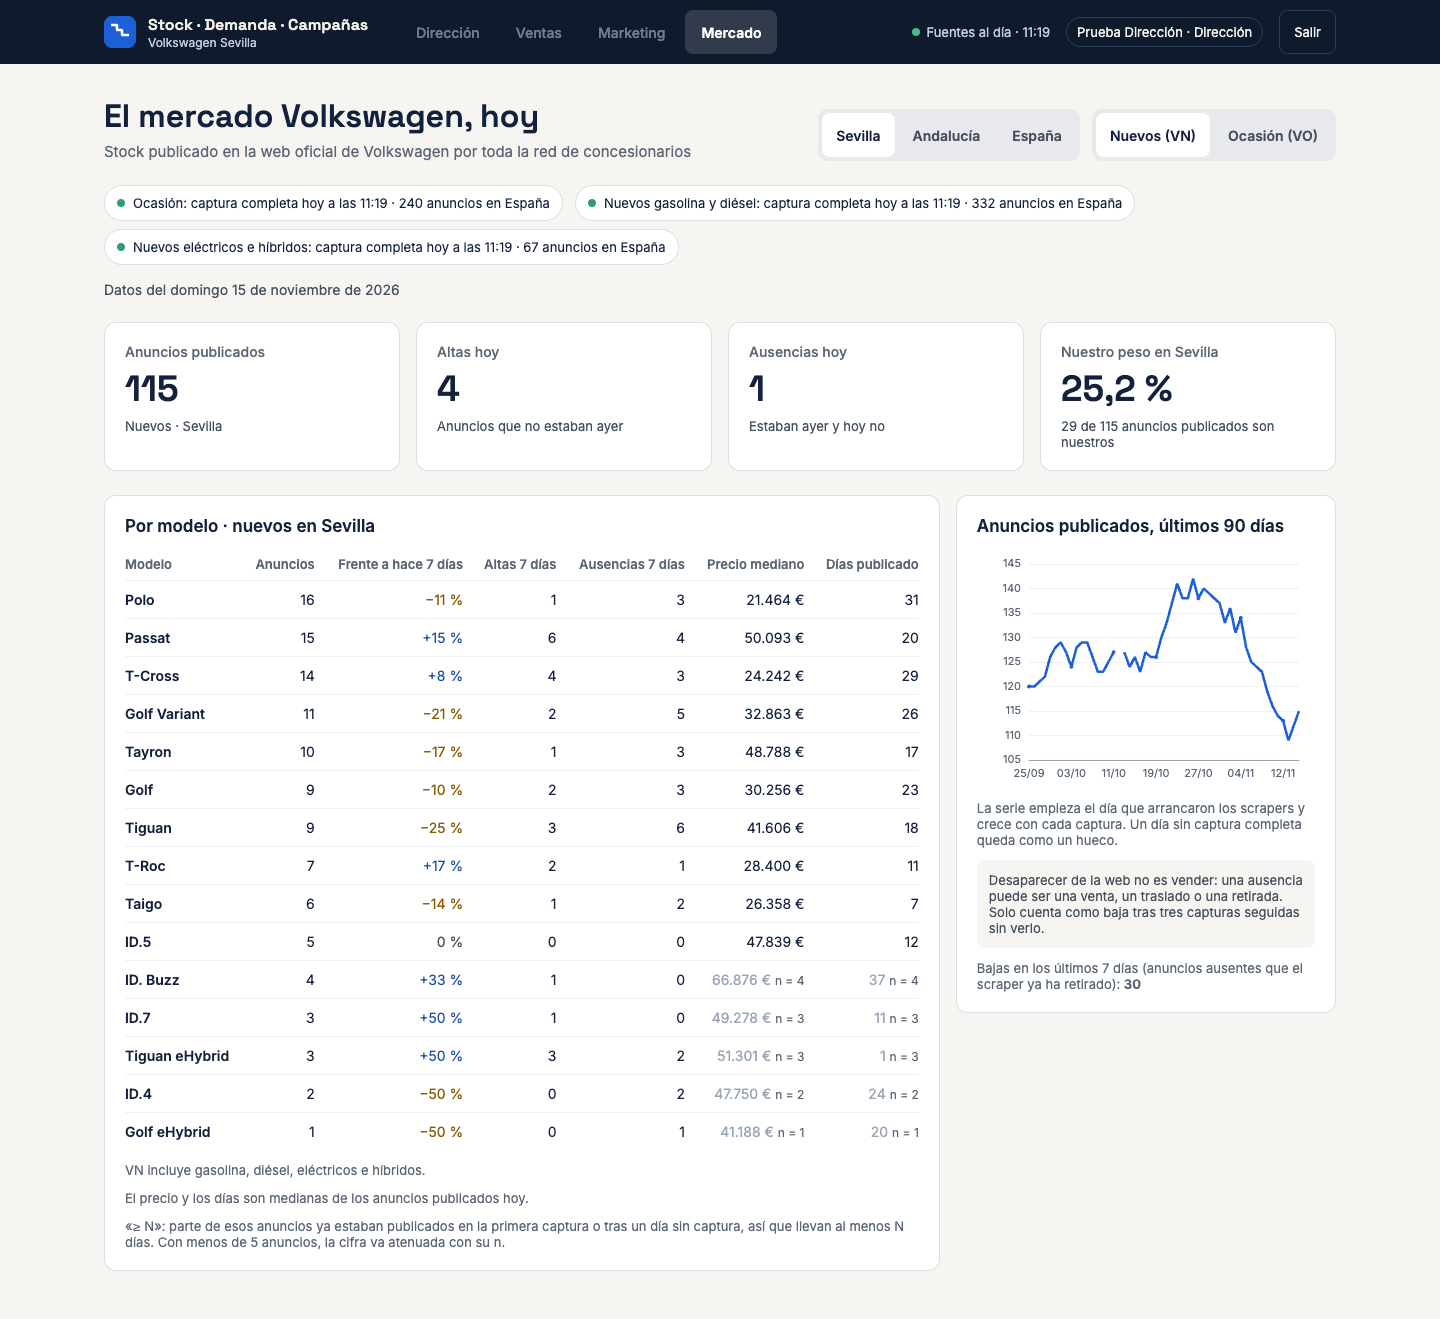
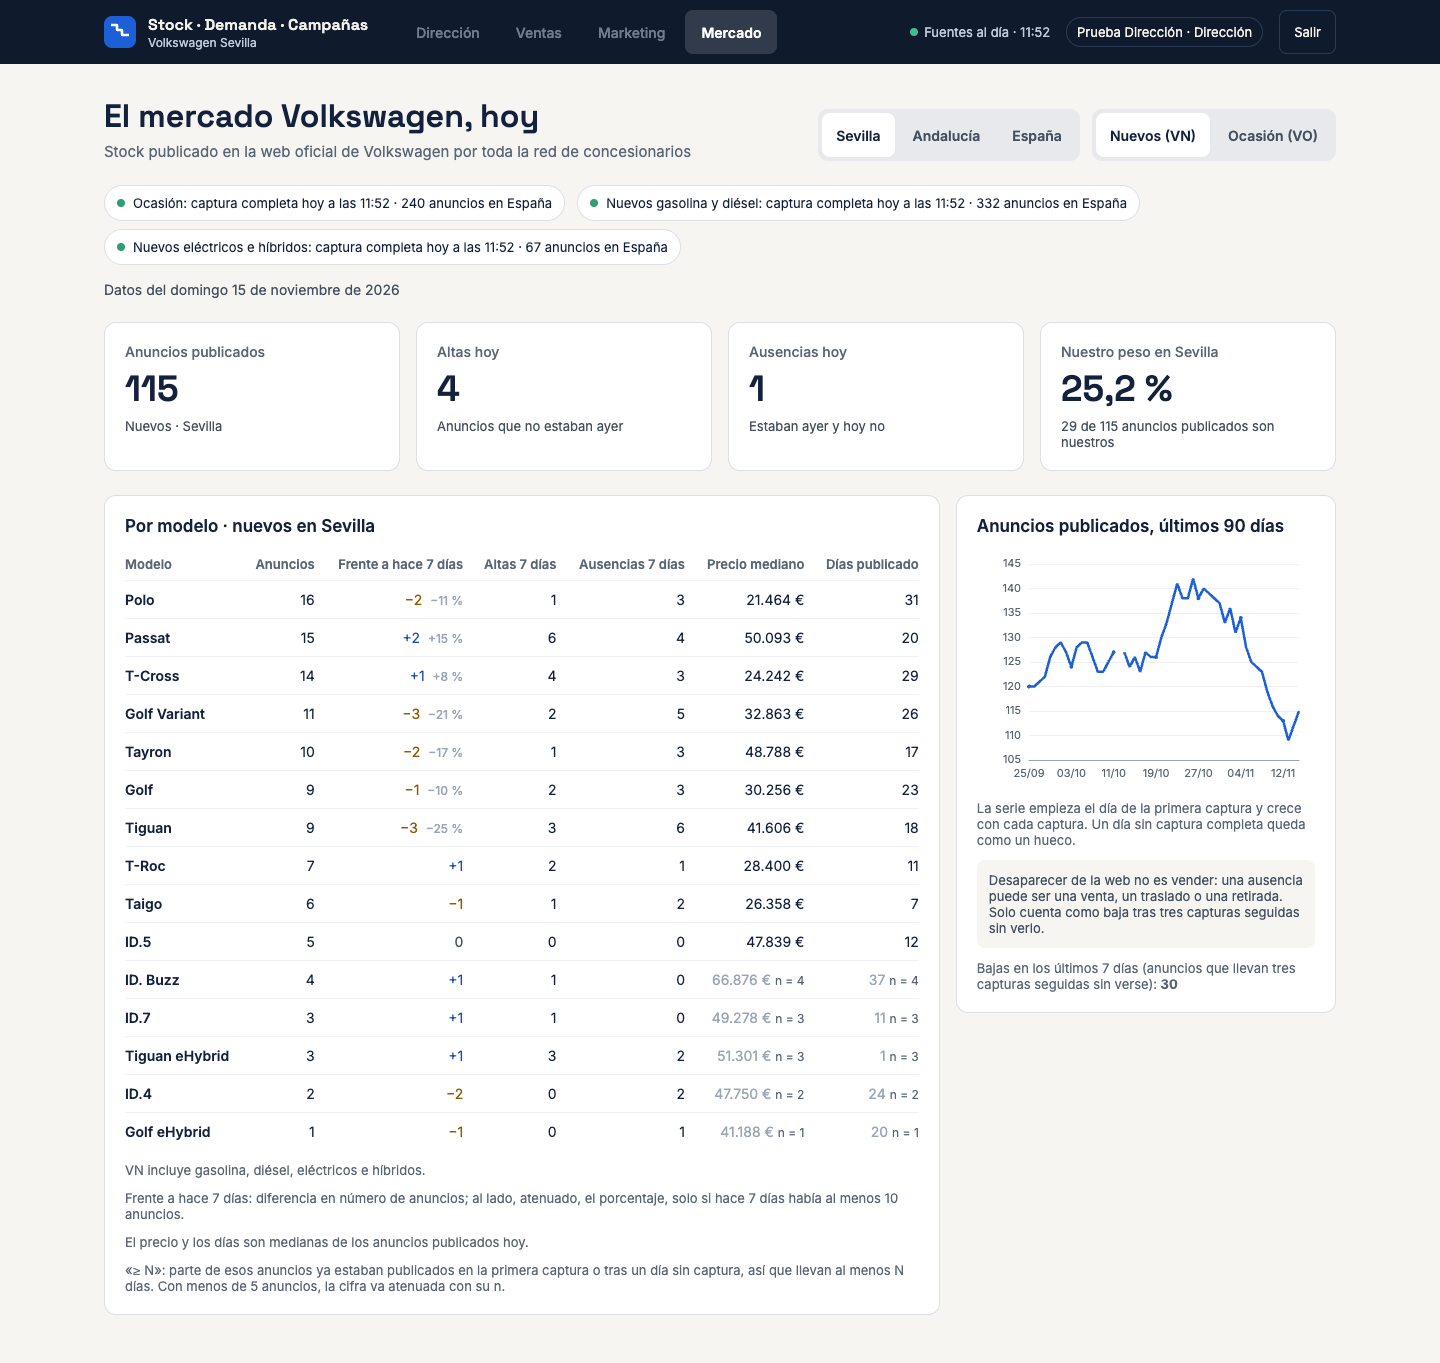
Mercado: tabla en dos líneas en el móvil, variación en unidades y «captura» en vez de «scraper»
- Pantallas estrechas: cada modelo en dos líneas, sin desplazamiento horizontal; escritorio igual.
- «Frente a hace 7 días»: diferencia con signo; porcentaje atenuado solo si hace 7 días había al
  menos panel.n_minimo_porcentaje anuncios (10, en config/concesionario.yaml).
- La vista Mercado ya no dice «scraper».
- tests/navegador/capturas.mjs: comprobación en Chrome a 390 px y capturas regeneradas.

diff --git a/panel/templates/_mercado.html b/panel/templates/_mercado.html
@@ -27,10 +27,10 @@
   {% if not m.hay_datos %}
   <section class="tarjeta">
     <h2>Todavía no hay datos de {{ 'nuevos' if m.tipo == 'VN' else 'ocasión' }}</h2>
-    <p class="nota">Aparecen tras el primer día con captura completa{% if m.tipo == 'VN' %} de los dos scrapers de nuevos{% endif %} y el precálculo de las 09:10.</p>
+    <p class="nota">Aparecen tras el primer día con captura completa{% if m.tipo == 'VN' %} de las dos capturas de nuevos (gasolina y diésel; eléctricos e híbridos){% endif %} y el precálculo de las 09:10.</p>
   </section>
   {% else %}
-  <p class="dia-datos">Datos del {{ m.dia_largo }}{% if not m.es_hoy %}<span class="aviso-dia"> · Falta la captura completa de hoy{% if m.tipo == 'VN' %} de alguno de los dos scrapers de nuevos{% endif %}: se muestran los datos del último día completo.</span>{% endif %}</p>
+  <p class="dia-datos">Datos del {{ m.dia_largo }}{% if not m.es_hoy %}<span class="aviso-dia"> · Falta la captura completa de hoy{% if m.tipo == 'VN' %} de alguna de las dos capturas de nuevos{% endif %}: se muestran los datos del último día completo.</span>{% endif %}</p>
 
   <div class="kpis">
     {% for k in m.kpis %}
@@ -46,7 +46,7 @@
     <section aria-labelledby="t-modelos" class="tarjeta tarjeta-ancha">
       <h2 id="t-modelos">Por modelo · {{ m.titulo_tabla }}</h2>
       <div class="tabla-scroll">
-        <table class="tabla">
+        <table class="tabla tabla-modelos">
           <thead>
             <tr>
               <th scope="col" class="izq">Modelo</th>
@@ -62,12 +62,12 @@
             {% for r in m.modelos %}
             <tr>
               <th scope="row" class="izq">{{ r.modelo }}</th>
-              <td>{{ r.anuncios }}</td>
-              <td class="var-{{ r.variacion.clase }}"{% if r.variacion.motivo %} title="Sin cifra: {{ r.variacion.motivo }}"{% endif %}>{{ r.variacion.texto }}</td>
-              <td{% if r.altas == f.GUION %} title="Sin cifra: falta alguna captura completa de los últimos 7 días"{% endif %}>{{ r.altas }}</td>
-              <td{% if r.ausencias == f.GUION %} title="Sin cifra: falta alguna captura completa de los últimos 7 días"{% endif %}>{{ r.ausencias }}</td>
-              <td{% if r.precio_atenuado %} class="atenuado"{% endif %}>{{ r.precio }}{% if r.precio_atenuado %} <span class="n">n = {{ r.precio_n }}</span>{% endif %}</td>
-              <td{% if r.dias_atenuado %} class="atenuado"{% endif %}{% if r.dias_cota %} title="Cota inferior: parte de los anuncios ya estaban en la primera captura o tras un día sin captura"{% endif %}>{{ r.dias }}{% if r.dias_atenuado %} <span class="n">n = {{ r.dias_n }}</span>{% endif %}</td>
+              <td data-etiqueta="Anuncios">{{ r.anuncios }}</td>
+              <td data-etiqueta="En 7 días" class="var-{{ r.variacion.clase }}"{% if r.variacion.motivo %} title="Sin cifra: {{ r.variacion.motivo }}"{% endif %}>{{ r.variacion.texto }}{% if r.variacion.porcentaje %} <span class="pct">{{ r.variacion.porcentaje }}</span>{% endif %}</td>
+              <td data-etiqueta="Altas 7 d" class="linea2"{% if r.altas == f.GUION %} title="Sin cifra: falta alguna captura completa de los últimos 7 días"{% endif %}>{{ r.altas }}</td>
+              <td data-etiqueta="Ausenc. 7 d" class="linea2"{% if r.ausencias == f.GUION %} title="Sin cifra: falta alguna captura completa de los últimos 7 días"{% endif %}>{{ r.ausencias }}</td>
+              <td data-etiqueta="Precio med." class="linea2{% if r.precio_atenuado %} atenuado{% endif %}">{{ r.precio }}{% if r.precio_atenuado %} <span class="n">n = {{ r.precio_n }}</span>{% endif %}</td>
+              <td data-etiqueta="Días publ." class="linea2{% if r.dias_atenuado %} atenuado{% endif %}"{% if r.dias_cota %} title="Cota inferior: parte de los anuncios ya estaban en la primera captura o tras un día sin captura"{% endif %}>{{ r.dias }}{% if r.dias_atenuado %} <span class="n">n = {{ r.dias_n }}</span>{% endif %}</td>
             </tr>
             {% else %}
             <tr><td colspan="7" class="izq">Sin anuncios en esta zona.</td></tr>
@@ -82,9 +82,9 @@
     <section aria-labelledby="t-serie" class="tarjeta tarjeta-estrecha">
       <h2 id="t-serie">Anuncios publicados, últimos {{ 90 }} días</h2>
       <div class="grafico" role="img" aria-label="Evolución diaria del número de anuncios publicados; los días sin captura completa quedan como huecos" data-serie='{{ m.serie|tojson }}'></div>
-      <p class="nota">La serie empieza el día que arrancaron los scrapers y crece con cada captura. Un día sin captura completa queda como un hueco.</p>
+      <p class="nota">La serie empieza el día de la primera captura y crece con cada captura. Un día sin captura completa queda como un hueco.</p>
       <p class="recuadro">Desaparecer de la web no es vender: una ausencia puede ser una venta, un traslado o una retirada. Solo cuenta como baja tras tres capturas seguidas sin verlo.</p>
-      <p class="nota">Bajas en los últimos 7 días (anuncios ausentes que el scraper ya ha retirado): {% if m.bajas_7 is not none %}<strong>{{ m.bajas_7 }}</strong>{% else %}— ({{ m.motivo_bajas }}){% endif %}</p>
+      <p class="nota">Bajas en los últimos 7 días (anuncios que llevan tres capturas seguidas sin verse): {% if m.bajas_7 is not none %}<strong>{{ m.bajas_7 }}</strong>{% else %}— ({{ m.motivo_bajas }}){% endif %}</p>
     </section>
   </div>
   {% endif %}

diff --git a/panel/static/css/panel.css b/panel/static/css/panel.css
@@ -155,6 +155,7 @@ a.nav-item:hover { color: var(--blanco); background: rgba(255, 255, 255, 0.08); 
 .var-baja { color: var(--marron); font-weight: 600; }
 .var-neutro { color: var(--gris-oscuro); font-weight: 600; }
 .atenuado { color: var(--eje); }
+.pct { margin-left: 4px; color: var(--eje); font-size: 12px; font-weight: 500; white-space: nowrap; }
 .n { font-size: 12px; color: var(--gris); white-space: nowrap; }
 .detalle { font-size: 12px; color: var(--gris-oscuro); max-width: 520px; overflow-wrap: anywhere; }
 .estado-ok { color: var(--verde); font-weight: 600; }
@@ -203,6 +204,25 @@ a.nav-item:hover { color: var(--blanco); background: rgba(255, 255, 255, 0.08); 
   .kpi-sub { font-size: 12px; }
   .tarjeta { padding: 16px; }
   .tarjeta-ancha, .tarjeta-estrecha { flex-basis: 100%; }
+
+  /* Tabla por modelo: cada modelo en dos líneas, sin desplazamiento horizontal.
+     Arriba modelo, anuncios y variación; debajo, atenuado y con etiquetas, el resto. */
+  .tabla-modelos { min-width: 0; display: block; }
+  .tabla-modelos thead { position: absolute; width: 1px; height: 1px; overflow: hidden; clip: rect(0 0 0 0); }
+  .tabla-modelos tbody { display: block; }
+  .tabla-modelos tbody tr {
+    display: grid; grid-template-columns: repeat(4, minmax(0, 1fr)); column-gap: 8px; row-gap: 6px;
+    padding: 10px 0;
+  }
+  .tabla-modelos tbody th, .tabla-modelos tbody td { padding: 0; text-align: left; overflow-wrap: anywhere; }
+  .tabla-modelos tbody th { grid-column: 1 / span 2; align-self: end; font-size: 15px; }
+  .tabla-modelos tbody td { text-align: right; }
+  .tabla-modelos tbody td.linea2 { text-align: left; font-size: 13px; color: var(--gris); }
+  .tabla-modelos tbody td.linea2.atenuado { color: var(--eje); }
+  .tabla-modelos tbody td[colspan] { grid-column: 1 / -1; text-align: left; }
+  .tabla-modelos td[data-etiqueta]::before {
+    content: attr(data-etiqueta); display: block; font-size: 11px; font-weight: 500; color: var(--gris);
+  }
 
   .nav-movil {
     display: grid; position: fixed; left: 0; right: 0; bottom: 0; z-index: 20;

diff --git a/tests/test_panel.py b/tests/test_panel.py
@@ -22,6 +22,7 @@ from panel import seguridad as seg
 from panel import usuarios
 from panel.app import CABECERAS, MENSAJE_ACCESO, crear_app
 from panel.permisos import ROLES
+from sinteticos import RAIZ
 
 CLAVE = "clave-temporal-123"
 NUEVA = "clave-definitiva-456"
@@ -532,7 +533,65 @@ def test_sin_cifra_se_muestra_raya_con_motivo(app, pg, datos, personas):
     fila = _filas(html)["Golf"]
     assert fila[1:4] == ["—", "—", "—"]
     assert "n = 3" in fila[4] and "≥" in fila[5]                    # pocos anuncios: atenuado con su n
-    assert 'class="atenuado"' in html
+    assert 'class="linea2 atenuado"' in html
+
+
+# ================================================================== variación a 7 días
+
+def _poner_mercado(pg, dia, modelos):
+    """Filas panel_mercado_* a mano (como las dejaría el precálculo): [(modelo, anuncios, hace7)]."""
+    pg.execute("INSERT INTO panel_mercado_dia (dia, tipo, zona, zona_nombre, anuncios, propios, concesionarios, "
+               "altas_hoy, ausencias_hoy, bajas_7, ayer_completo, hace7_completo, ventana_completa) VALUES "
+               "(%s, 'VO', 'espana', 'España', 1, 0, 1, 0, 0, 0, true, true, true)", (dia,))
+    for modelo, n, hace7 in modelos:
+        pg.execute("INSERT INTO panel_mercado_modelo (dia, tipo, zona, modelo, anuncios, anuncios_hace7, altas_7, "
+                   "ausencias_7, precio_mediano_cents, n_precio, dias_mediana, dias_cota) VALUES "
+                   "(%s, 'VO', 'espana', %s, %s, %s, 0, 0, 2000000, %s, 10, false)", (dia, modelo, n, hace7, n))
+
+
+def test_variacion_en_unidades_y_porcentaje_desde_10(app, pg, personas):
+    _poner_mercado(pg, HOY, [("Uno", 12, 10), ("Dos", 7, 9), ("Tres", 3, 3), ("Cuatro", 3, 0), ("Cinco", 30, 40)])
+    html = dentro(app, "ventas").get("/mercado?zona=espana&tipo=VO").text
+    celdas = {m: re.sub(r"\s+", " ", re.sub(r"<[^>]+>", " ", c)).strip()
+              for m, c in re.findall(r'<th scope="row" class="izq">([^<]+)</th>\s*<td[^>]*>[^<]*</td>\s*<td[^>]*>(.*?)</td>',
+                                     html, re.S)}
+    assert celdas == {"Uno": "+2 +20 %", "Dos": "−2", "Tres": "0", "Cuatro": "+3", "Cinco": "−10 −25 %"}
+    assert '<span class="pct">+20 %</span>' in html                 # el porcentaje va atenuado
+    assert "solo si hace 7 días había al menos 10 anuncios" in html
+
+
+def test_umbral_del_porcentaje_desde_la_configuracion(pg, panel_url, personas, tmp_path, monkeypatch):
+    fichero = tmp_path / "c.yaml"
+    fichero.write_text((RAIZ / "config/concesionario.yaml").read_text()
+                       .replace("n_minimo_porcentaje: 10", "n_minimo_porcentaje: 5"))
+    monkeypatch.setenv("CDF_CONCESIONARIO", str(fichero))
+    app = crear_app(dsn=panel_url, hoy=lambda: HOY)
+    _poner_mercado(pg, HOY, [("Seis", 8, 6)])
+    html = dentro(app, "ventas").get("/mercado?zona=espana&tipo=VO").text
+    assert '+2 <span class="pct">+33 %</span>' in html
+
+
+def test_sin_cifra_de_hace_7_dias_no_cambia(app, pg, personas):
+    _poner_mercado(pg, HOY, [("Siete", 5, None)])
+    html = dentro(app, "ventas").get("/mercado?zona=espana&tipo=VO").text
+    assert 'title="Sin cifra: falta la captura completa de hace 7 días">—</td>' in html
+
+
+# ================================================================== sin «scraper» en lo que ve el usuario de Mercado
+
+def test_mercado_sin_la_palabra_scraper(app, pg, datos, personas):
+    cl = dentro(app, "tecnico")
+    textos = [cl.get(f"/mercado?tipo={t}").text for t in ("VN", "VO")]          # sin datos todavía
+    _con_datos(pg, datos, hasta=HOY - timedelta(days=1))                         # y sin captura de hoy
+    for zona in ("provincia", "comunidad", "espana"):
+        for tipo in ("VN", "VO"):
+            textos.append(cl.get(f"/mercado?zona={zona}&tipo={tipo}").text)
+            textos.append(cl.get(f"/mercado?zona={zona}&tipo={tipo}", headers={"HX-Request": "true"}).text)
+    for html in textos:
+        assert "scraper" not in html.lower()
+    assert "anuncios que llevan tres capturas seguidas sin verse" in textos[-1]
+    assert "La serie empieza el día de la primera captura" in textos[-1]
+    assert "scraper" in cl.get("/estado-fuentes").text.lower()                  # la página técnica sí puede
 
 
 # ================================================================== replicable: otro concesionario

diff --git a/panel/mercado.py b/panel/mercado.py
@@ -30,7 +30,7 @@ def etiquetas_zona(conc: Concesionario) -> dict[str, str]:
 
 
 def capturas(pg: psycopg.Connection, hoy: date) -> list[dict]:
-    """Última captura completa de cada scraper, para la cabecera."""
+    """Última captura completa de cada fuente, para la cabecera."""
     ultimas = {f: (d, fin, n) for f, d, fin, n in pg.execute(
         """SELECT DISTINCT ON (fuente) fuente, dia, fin_at, anuncios FROM panel_mercado_capturas
            WHERE completa ORDER BY fuente, dia DESC""")}
@@ -58,14 +58,18 @@ def estado_cabecera(pg: psycopg.Connection, hoy: date) -> dict:
         "1 fuente" if len(faltan) == 1 else f"{len(faltan)} fuentes")}
 
 
-def _variacion(anuncios: int, hace7: int | None, motivo: str) -> dict:
+def variacion(anuncios: int, hace7: int | None, motivo: str, n_minimo_pct: int) -> dict:
+    """Diferencia en anuncios frente a hace 7 días («−2», «+3», «0») y, atenuado al lado, el
+    porcentaje solo si hace 7 días había al menos `n_minimo_pct` anuncios."""
     if hace7 is None:
-        return {"texto": fmt.GUION, "motivo": motivo, "clase": "neutro"}
-    if hace7 == 0:
-        return {"texto": fmt.GUION, "motivo": "sin anuncios hace 7 días", "clase": "neutro"}
-    pct = (anuncios - hace7) / hace7 * 100
-    clase = "sube" if round(pct) > 0 else ("baja" if round(pct) < 0 else "neutro")
-    return {"texto": fmt.porcentaje(pct, 0, signo=True), "motivo": None, "clase": clase}
+        return {"texto": fmt.GUION, "porcentaje": None, "motivo": motivo, "clase": "neutro"}
+    diferencia = anuncios - hace7
+    texto = "0" if diferencia == 0 else ("+" if diferencia > 0 else "") + fmt.miles(diferencia)
+    porcentaje = None
+    if hace7 >= n_minimo_pct:
+        porcentaje = fmt.porcentaje(diferencia / hace7 * 100, 0, signo=True)
+    clase = "sube" if diferencia > 0 else ("baja" if diferencia < 0 else "neutro")
+    return {"texto": texto, "porcentaje": porcentaje, "motivo": None, "clase": clase}
 
 
 def datos(pg: psycopg.Connection, conc: Concesionario, tipo: str, zona: str, hoy: date) -> dict:
@@ -116,7 +120,7 @@ def datos(pg: psycopg.Connection, conc: Concesionario, tipo: str, zona: str, hoy
                ORDER BY anuncios DESC, modelo""", (dia, tipo, zona)):
         modelos.append({
             "modelo": modelo, "anuncios": fmt.miles(n),
-            "variacion": _variacion(n, hace7, MOTIVO_HACE7),
+            "variacion": variacion(n, hace7, MOTIVO_HACE7, conc.n_minimo_porcentaje),
             "altas": fmt.miles(altas7) if ventana_ok else fmt.GUION,
             "ausencias": fmt.miles(ausencias7) if ventana_ok else fmt.GUION,
             "precio": fmt.euros(precio), "precio_n": n_precio, "precio_atenuado": 0 < n_precio < n_min,
@@ -141,7 +145,9 @@ def datos(pg: psycopg.Connection, conc: Concesionario, tipo: str, zona: str, hoy
         serie["valores"].append(valores.get(d))
         d += timedelta(days=1)
 
-    notas = [f"El precio y los días son medianas de los anuncios publicados {'hoy' if es_hoy else 'ese día'}.",
+    notas = [f"Frente a hace 7 días: diferencia en número de anuncios; al lado, atenuado, el porcentaje, "
+             f"solo si hace 7 días había al menos {conc.n_minimo_porcentaje} anuncios.",
+             f"El precio y los días son medianas de los anuncios publicados {'hoy' if es_hoy else 'ese día'}.",
              "«≥ N»: parte de esos anuncios ya estaban publicados en la primera captura o tras un día sin "
              f"captura, así que llevan al menos N días. Con menos de {n_min} anuncios, la cifra va atenuada con su n."]
     if tipo == "VN":

diff --git a/ingesta/concesionario.py b/ingesta/concesionario.py
@@ -34,6 +34,7 @@ class Concesionario:
     comunidad: str
     provincias_comunidad: tuple[str, ...]
     n_minimo_medianas: int            # por debajo, precio y días se muestran atenuados
+    n_minimo_porcentaje: int          # variación a 7 días: porcentaje solo si hace 7 días había al menos estos
 
 
 def ruta() -> Path:
@@ -62,4 +63,5 @@ def cargar(fichero: Path | None = None) -> Concesionario:
         comunidad=ccaa,
         provincias_comunidad=provincias,
         n_minimo_medianas=int(panel.get("n_minimo_medianas", 5)),
+        n_minimo_porcentaje=int(panel.get("n_minimo_porcentaje", 10)),
     )

diff --git a/CHANGELOG.md b/CHANGELOG.md
@@ -1,5 +1,15 @@
 # Cambios
 
+## 2026-11-15 · Hito 1b: ajustes de la vista Mercado (rama hito-1b)
+
+- Móvil: en pantallas estrechas, cada modelo de la tabla ocupa dos líneas sin desplazamiento
+  horizontal (arriba modelo, anuncios y variación; debajo, atenuado y con etiquetas, altas,
+  ausencias, precio y días). En escritorio la tabla no cambia.
+- «Frente a hace 7 días»: diferencia en anuncios con signo; el porcentaje, atenuado, solo si hace 7
+  días había al menos `panel.n_minimo_porcentaje` anuncios (10, en `config/concesionario.yaml`).
+- Sin la palabra «scraper» en la vista Mercado: «captura» en su lugar.
+- `tests/navegador/capturas.mjs`: comprobación en Chrome a 390 px y capturas de `docs/capturas/`.
+
 ## 2026-11-15 · Hito 1b, sesión 1: base del panel y vista Mercado (rama hito-1b)
 
 - Encargo guardado en `docs/hitos/hito_1b_sesion_1.md` (sustituye a la ficha de `docs/desarrollo.md`).

diff --git a/panel/README.md b/panel/README.md
@@ -56,4 +56,8 @@ Las pruebas usan el TestClient de Starlette, sin red, con la aplicación conecta
 Cubren acceso, bloqueo, caducidad, cierre, CSRF, la matriz completa de permisos, que ni la
 contraseña ni el hash salen en logs o respuestas, los permisos del usuario de Postgres, las
 cabeceras, que el HTML no pide nada fuera, las cifras de Mercado frente a SQL directo y un
-concesionario ficticio de otra provincia sin rastro del propio. Capturas en `docs/capturas/`.
+concesionario ficticio de otra provincia sin rastro del propio.
+
+En Chrome real, `tests/navegador/capturas.mjs` (instrucciones en su cabecera) entra en el panel de
+`make panel-dev`, comprueba a 390 px que nada desborda y que cada modelo enseña sus siete datos, y
+regenera las capturas de `docs/capturas/`.
